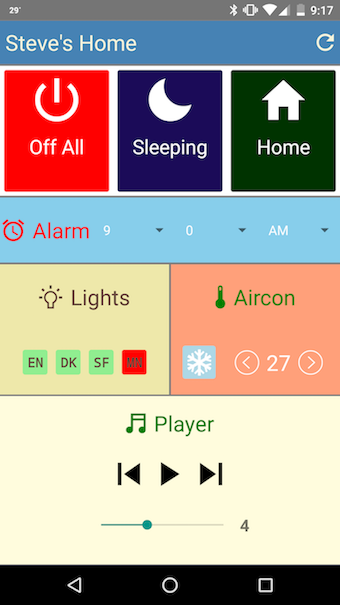
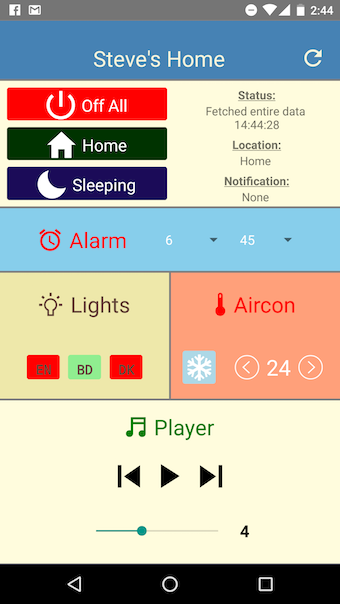
Updated the homeautomate project page

diff --git a/_posts/2016-10-31-home-automation.md b/_posts/2016-10-31-home-automation.md
@@ -39,7 +39,7 @@ Let's start with the hardware. As I mentioned several times, the core of it is a
 ![System Overview](/assets/images/homeAutomate/System.png "System Overview")
 ![System Parts](/assets/images/homeAutomate/Architecture.png "System Parts")
 
-As I didn't want to solder directly on the RPI, I used an adapter with the same pin distribution as the RPI and soldered the circuit on it like [this one](/storage/projectsData/homeAutomate/pinheader.jpg). This way the circuit can easily be removed and put back on, which is quite practical. I also recommend you to get a breadboard and cables as shown on the prototype picture above, so you can test and experiment without soldering anything. It is also a good idea to draw a diagram of the positioning of each electronic part before soldering. You also need to consider where your RPI will be located, in which direction the devices you want to control are (a must for IR-enabled devices), and place the electronic parts accordingly.
+As I didn't want to solder directly on the RPI, I used an adapter with the same pin distribution as the RPI and soldered the circuit on it like [this one](/assets/images/homeAutomate/pinheader.jpg). This way the circuit can easily be removed and put back on, which is quite practical. I also recommend you to get a breadboard and cables as shown on the prototype picture above, so you can test and experiment without soldering anything. It is also a good idea to draw a diagram of the positioning of each electronic part before soldering. You also need to consider where your RPI will be located, in which direction the devices you want to control are (a must for IR-enabled devices), and place the electronic parts accordingly.
 
 #### IR Receiver and Emitter
 
@@ -53,7 +53,7 @@ In order to build the circuit and setup LIRC, just follow [this](http://alexba.i
 
 #### RF433MHz Receiver and Emitter
 
-In order to control my lamps/spotlights I used RF433MHz-enabled power sockets like [these](/storage/projectsData/homeAutomate/remote_socket.jpg). The 3 sockets were controlled by a remote control that came with them, so the goal was to replace it with my system. I thought in the beginning that I can follow the same approach as with the IR devices: record each button's signal from the remote, and then emit the recorded signal through an emitter.
+In order to control my lamps/spotlights I used RF433MHz-enabled power sockets like [these](/assets/images/homeAutomate/remote_socket.jpg). The 3 sockets were controlled by a remote control that came with them, so the goal was to replace it with my system. I thought in the beginning that I can follow the same approach as with the IR devices: record each button's signal from the remote, and then emit the recorded signal through an emitter.
 
 Unfortunately, it didn't work. I tried recording the signal using [433Utils](https://github.com/ninjablocks/433Utils) and [pilight](https://www.pilight.org/), and after several hours of frustration, I gave up on that approach. I am still not sure what the problem was, but it was impossible to distinguish between noise and the remote's signal. The next approach was to reverse-engineer the remote control (so the receiver deemed unnecessary at the end).
 
@@ -93,7 +93,7 @@ This is what the circuit looks like, without the buttons (it is not very pretty,
 
 ## Raspberry Pi Software
 
-The software of the *RPI* is compromised of scripts controlling the input/output, and a *nodeJS* server used by the mobile application. I must say that the code is rather messy and the scripts are not that well organized, so it might not be as easy to reuse them. As everything works well for me, I haven't bothered to rewrite them (maybe in the future).
+The software of the *RPI* is compromised of scripts controlling the input/output, and a *nodeJS* server used by the mobile application. I must say that the code is rather messy and the scripts are not that well organized, so it might not be as easy to reuse them. Things that rarely change will probably stay as they are, since functionally everything works well.
 
 #### Scripts
 
@@ -111,21 +111,23 @@ The PIR sensor script takes input from the motion sensor, and it executes the *c
 
 Even though the button switch has 4 positions, only 2 are connected to GPIOs. This means that there are 3 possible states for the switch (00, 01, 10). Depending on the switch state, and how long the clickable button is held down, there is a different command being executed. As there are a lot of combinations that happen, it is easier to just check the source code instead of me explaining in text.
 
-There are two scripts that are not used in my current system. One is the [temperature sensor](https://github.com/sradevski/homeAutomate/blob/master/scripts/temp_sensor.py) script, which reads the current humidity and temperature and prints it out in the terminal. The temperature readings are not that accurate because of the proximity to the RPI and the precision of the sensor itself, and I sometimes am curious of the humidity in my room, but that is all the usage it gets. The second script that is not used is the [phone on network](https://github.com/sradevski/homeAutomate/blob/master/scripts/phone_on_network.py) script. I was hoping that I can periodically check all devices connected to the network, and if my phone is not on the list, it means I am not home (as I always have wifi on) and it can safely turn off everything. Unfortunately, when the phone is locked, it automatically turns off the wifi to preserve battery, and it didn't work as planned. After making a nodeJS server, the same thing can be achieved by it polling the mobile app, but I haven't found the time to do it.
+There are two scripts that are not used in my current system. One is the [temperature sensor](https://github.com/sradevski/homeAutomate/blob/master/scripts/temp_sensor.py) script, which reads the current humidity and temperature and prints it out in the terminal. The temperature readings are not that accurate because of the proximity to the RPI and the precision of the sensor itself, and I sometimes am curious of the humidity in my room, but that is all the usage it gets. The second script that is not used is the [phone on network](https://github.com/sradevski/homeAutomate/blob/master/scripts/phone_on_network.py) script. I was hoping that I can periodically check all devices connected to the network, and if my phone is not on the list, it means I am not home (as I always have wifi on) and it can safely turn off everything. Unfortunately, when the phone is locked, it automatically turns off the wifi to preserve battery, and it didn't work as planned. After making a nodeJS server, the same thing can be achieved by it polling the mobile app, but I haven't found the time to do it, and is not really crucial for the functionality of the system.
 
 #### NodeJS Server
 
-The *nodeJS* server, also not particularly well written, is very simple and it serves only the mobile application. It doesn't do authentication, validation, or anything sophisticated really. There is no need for authentication currently, as the RPI can only be accessed through the local network. It just has 5 post URIs that can be called from the mobile app independently. The call simply wraps the parameters sent from the mobile app, runs the appropriate script, and returns a config JSON with the latest state of the system when the script has finished executing. There are few more things happening in the code, but that is the essence of it. Because of the many constraints on the university VPN there cannot be a server hosted for outside access, and that is the reason why it works the way it does.
+The *nodeJS* server, also not particularly well written, is very simple and it serves only the mobile application. It just has 5 post URIs that can be called from the mobile app independently. The call simply wraps the parameters sent from the mobile app, runs the appropriate script, and returns a config JSON with the latest state of the system when the script has finished executing. There are few more things happening in the code, but that is the essence of it.
+
+Initially, because of the many constraints on the university VPN stating that there cannot be a server hosted for outside access the first version didn't have any authentication and it could not be accessed from outside the university. After moving, I have created a certificate using [Let's Encypt](https://letsencrypt.org/), and added an authentication layer to the server. This allowed me to control my home from anywhere (which makes much more sense).
 
 ## React Native Mobile Application
 
-As you can see on the screenshot below, the mobile application is also quite simple. Since I developed it using *React Native*, it works on both *android* and *ios*. The app is compromised of 4 independent modules, plus 3 buttons for the most common actions I do every day. As I have shortly explained about the server, each button press makes a call to the server with the target state, the server executes the command, the latest state is returned, and it is showed on the screen, thus providing feedback if the action succeeded or not. The alarm is simply turning on the music player at the chosen time, and optionally the aircon 30 minutes before the alarm turns on (so it is all cozy and nice when I wake up). Each interaction with the app communicates with the server and it keeps everything up to date. Also as mentioned above, in order for the app to work, it must be connected to my local wifi network.
+As you can see on the screenshot below, the mobile application is also quite simple. Since I developed it using *React Native*, it works on both *android* and *ios*. The app is compromised of 4 independent modules, plus 3 buttons for the most common actions I do every day. It also displays the current status, when the state was updated, and notifications (such as errors). As I have shortly explained about the server, each button press makes a call to the server with the target state, the server executes the command, the latest state is returned, and it is showed on the screen, thus providing feedback if the action succeeded or not. The alarm is simply turning on the music player at the chosen time, and optionally the aircon 30 minutes before the alarm turns on (so it is all cozy and nice when I wake up). Each interaction with the app communicates with the server and it keeps everything up to date. The entire state is now managed by Redux, and I recently did a major refactoring of the mobile app to make it a bit more manageable.
 
 ![Mobile App](/assets/images/homeAutomate/mobile_app.png "Mobile App")
 
 ## Conclusion
 
-Despite all the hacks and messy code, poor electronics knowledge, and a short period of time, I have managed to automate most of the electric appliances in my room. As the world of IoT (the most overused term in the past year) is advancing, only your creativity will be the limit of what you can do with almost no money and some knowledge in electronics and programming. Things can get much more complicated, of course, but starting simple is the way to go. It is also a great way to learn new things, while making your life a bit easier (or at least you will feel cool and you can show off to your friends). I urge you to do even the simplest of things, since there is nothing more rewarding than knowing a bit more every day, and seeing that something that you have created in a working state.
+Despite all the hacks and messy code, poor electronics knowledge, and a short period of time, I have managed to automate most of the electric appliances in my room. As the world of IoT (the most overused term in the past year) is advancing, there is a lot you can do with almost no money and some knowledge in electronics and programming. Things can get much more complicated, of course, but starting simple is the way to go. It is also a great way to learn new things, while making your life a bit easier (or at least you will feel cool and you can show off to your friends). I urge you to do even the simplest of things, since there is nothing more rewarding than knowing a bit more every day, and seeing that something that you have created in a working state.
 
 ![Final Result](/assets/images/homeAutomate/finished_system.png "The Final Results")
 
